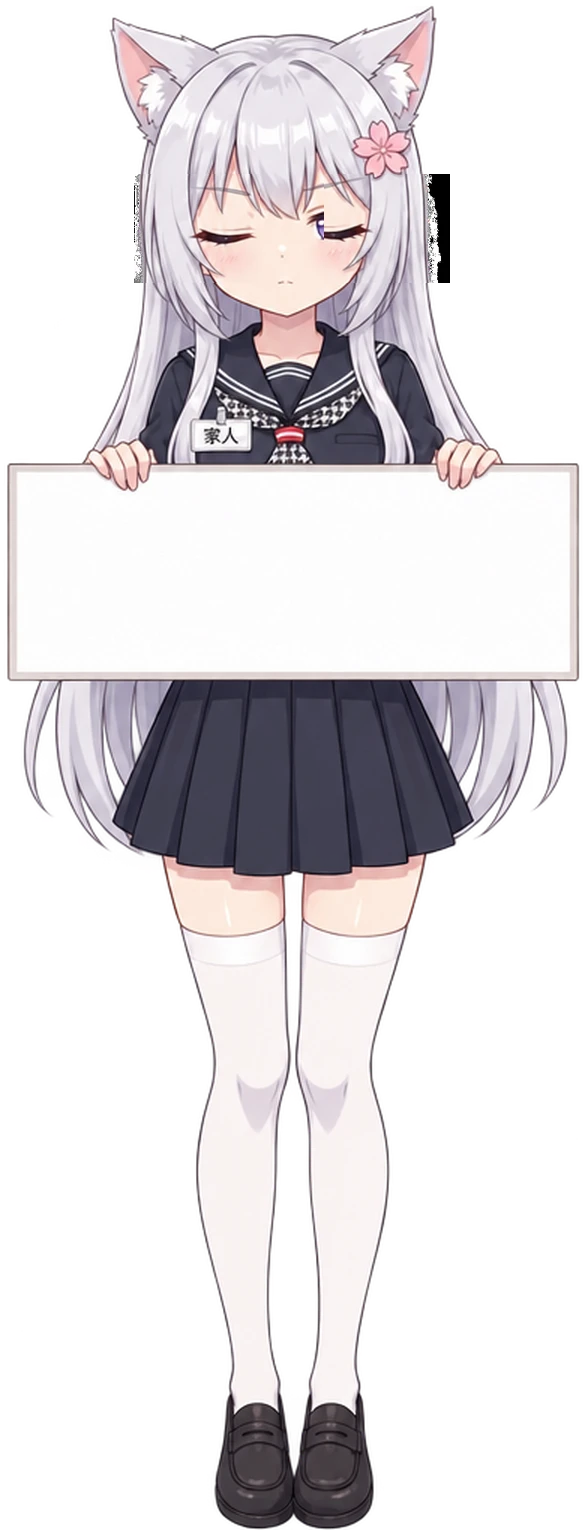
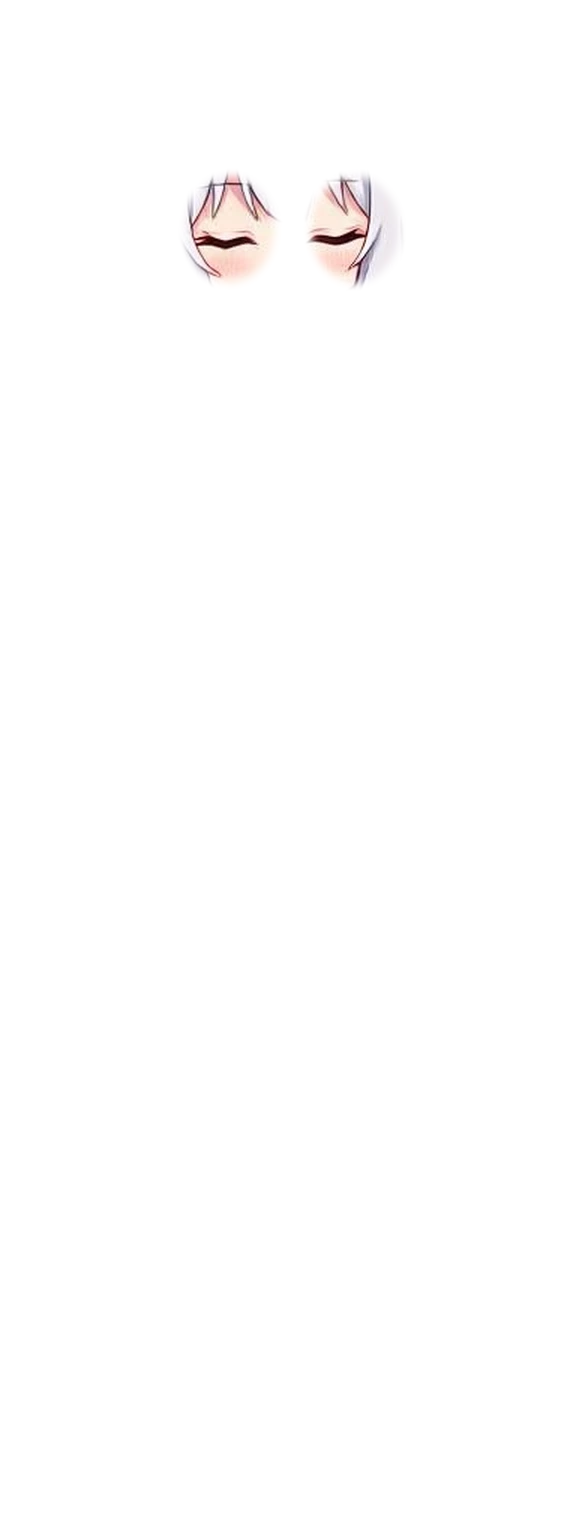
二次元皮肤：闭眼帧的形状烤进图片 alpha，眨眼不再动到头发（修「穿模」）
上一版把闭眼帧配一条通铺整卡宽的蒙版带淡入，带子扫过两侧头发（带内头发像素在两帧
里不一样），看上去像一块方块压在头发上 —— 用户判「穿模」。

- 闭眼帧改成「alpha 烤进图片」：只有两只眼睛的椭圆不透明，其余全透明。淡入淡出时
  只有眼睛那块参与合成，整卡其它像素（含两侧发丝）逐像素不变。
- --cast-eye-top/bottom 从「实测改动带」改成「别把眼睛裁掉」的安全带（7%/24%），
  形状不再依赖它。
- web/anime/*-blink.webp 体积从 131–169KB 降到 13–17KB（只有眼睛那块有数据）。

diff --git a/web/anime.css b/web/anime.css
@@ -693,8 +693,8 @@ html[data-skin="anime"] .node-card[data-cast="jp-nosla-gen2"] {
   --cast-plate-w: 0.967;
   --cast-plate-h: 0.122;
   --cast-cut: 0.439;   /* 摊开时立绘露到牌子的下沿，再往下就是数据面板 */
-  --cast-eye-top: 10.4%;   /* 眨眼层只在这条带里淡入：= 闭眼帧相对睁眼帧真正被改动的矩形（逐台实测） */
-  --cast-eye-bottom: 19.5%;
+  --cast-eye-top: 7%;   /* 只是「别把眨眼层裁到」的安全带：形状已经烤进闭眼帧的 alpha（两只眼睛的椭圆） */
+  --cast-eye-bottom: 24%;
   --cast-board: #ffe7f1;
   --cast-cell: rgb(255 255 255 / 0.58);
   --cast-line: #f6b1cc;
@@ -719,8 +719,8 @@ html[data-skin="anime"] .node-card[data-cast="de-nosla-fra"] {
   --cast-plate-w: 0.96;
   --cast-plate-h: 0.107;
   --cast-cut: 0.428;   /* 摊开时立绘露到牌子的下沿，再往下就是数据面板 */
-  --cast-eye-top: 8.2%;
-  --cast-eye-bottom: 17.3%;
+  --cast-eye-top: 7%;
+  --cast-eye-bottom: 24%;
   --cast-board: #fff5e0;
   --cast-cell: rgb(255 255 255 / 0.56);
   --cast-line: #e7cd90;
@@ -745,8 +745,8 @@ html[data-skin="anime"] .node-card[data-cast="us-vmiss-tri"] {
   --cast-plate-w: 0.94;
   --cast-plate-h: 0.134;
   --cast-cut: 0.44;   /* 摊开时立绘露到牌子的下沿，再往下就是数据面板 */
-  --cast-eye-top: 8.8%;
-  --cast-eye-bottom: 17.9%;
+  --cast-eye-top: 7%;
+  --cast-eye-bottom: 24%;
   --cast-board: #e9f2ff;
   --cast-cell: rgb(255 255 255 / 0.58);
   --cast-line: #aec9ff;
@@ -771,8 +771,8 @@ html[data-skin="anime"] .node-card[data-cast="us-bwh-dc9"] {
   --cast-plate-w: 0.967;
   --cast-plate-h: 0.112;
   --cast-cut: 0.432;   /* 摊开时立绘露到牌子的下沿，再往下就是数据面板 */
-  --cast-eye-top: 9.4%;
-  --cast-eye-bottom: 18.5%;
+  --cast-eye-top: 7%;
+  --cast-eye-bottom: 24%;
   --cast-board: #fff3dc;
   --cast-cell: rgb(255 255 255 / 0.56);
   --cast-line: #e9c684;
@@ -873,9 +873,10 @@ html[data-skin="anime"] .anime-fold-btn svg { width: 11px; height: 11px; }
 
 /* 闭眼帧：和立绘同一张图、同一个缩放定位，但盒子是**整张立绘那么高**（720px）——
    这样蒙版的百分比是按立绘坐标算的，展开 / 收起两种状态下都对得上。立绘层 overflow:hidden 负责裁。
-   蒙版只留「眼睛带」（--cast-eye-top / --cast-eye-bottom）。闭眼帧是「只蒙两只眼睛交给模型重画、
-   再合成回睁眼帧」来的：框外像素与睁眼帧**逐像素相同**（实测最大差值 0），所以这条带 = 闭眼帧真正
-   改动的矩形，带里除眼睛以外的部分两帧一致。带子放大只会浪费时间，放小会把眼睑切一半。 */
+   闭眼帧的「形状」烤在图片自己的 alpha 里：只有两只眼睛那两个椭圆是不透明的，别处全透明。
+   所以淡入淡出时只有眼睛那块会变，整卡其余像素（含两侧头发）逐像素不变 —— 上一版靠一条通铺整卡宽的
+   蒙版带，带子扫过两侧头发，看起来像一块方块压在头发上（用户原话「穿模」）。
+   这条 --cast-eye-top/bottom 只是「别把眼睛裁掉」的安全带，给宽一点无所谓。 */
 html[data-skin="anime"] .anime-blink {
   /* 必须显式 display: block：底座样式表把这一层默认藏了（别的皮肤下它是裸元素），
      只写动画不放开显示的话，动画一直在跑、人却永远看不到她眨眼。 */
